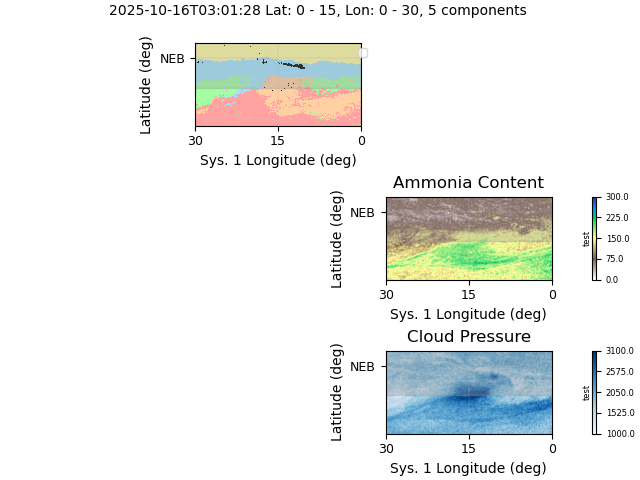
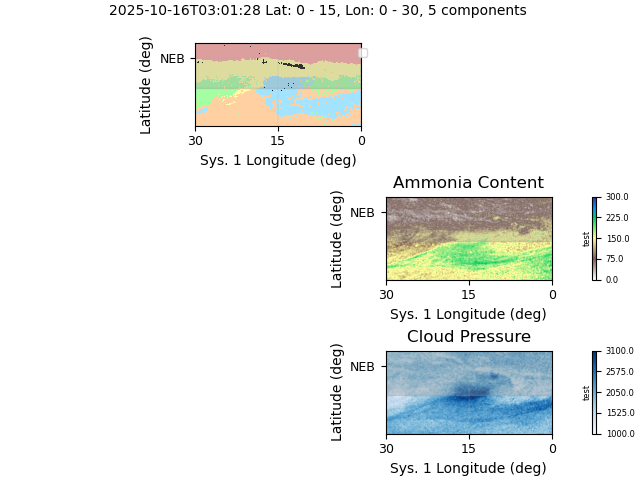
extract plotting logic from processes

Changed region(s): [[0.2812, 0.0938, 0.5625, 0.2812]]

diff --git a/scripts/processes.py b/scripts/processes.py
@@ -55,13 +55,12 @@ Parameters
         - list of length two lists with desired values ranges for each dimension in clustering, same order as keywords
     threshold, 
         - if soft clustering is enabled, specifies probability threshold for clustering
-    cmap, 
-        color map object for clusters
+
 """
 
-def create_map_comp_figure(keywords, latRng, lngRng, cm_num, n_comp, pred, input_arr, subset_shape, param_ranges, threshold, cmap, ROI):
+def create_map_comp_figure(keywords, latRng, lngRng, cm_num, n_comp, pred, input_arr, subset_shape, param_ranges, threshold,  ROI):
    
-  
+    cmap = ListedColormap(colors[:n_comp])
     fig2, axis2 = pl.subplots(3, 1, constrained_layout = True)
     map1 = pre.get_patch(keywords[0], latRng, lngRng, cm_num)
     map2 = pre.get_patch(keywords[1], latRng, lngRng, cm_num)
@@ -98,9 +97,9 @@ def create_uncertainty_fig(keywords, probs, indices, subset_shape, latRng, lngRn
      fig.savefig(output_file_name)
 
 
-def create_plot_figure(keywords, latRng, lngRng, cm_num, n_comp, pred, input_arr, subset_shape, param_ranges, threshold, cmap, cov_type, ROI):
+def create_plot_figure(keywords, latRng, lngRng, cm_num, n_comp, pred, input_arr, subset_shape, param_ranges, threshold,  cov_type, ROI):
     # creates and saves cluster map and cluster scatter plot
-    
+    cmap = ListedColormap(colors[:n_comp])
     fig1, axis1 = pl.subplots(2, 1)
     MP.create_cluster_map(axis1[0], n_comp, pred, input_arr, subset_shape, latRng, lngRng, cmap, ROI, cm_num)
     PL.create_cluster_plot(axis1[1],  keywords, 0, 1, input_arr, pred,  n_comp, cov_type, latRng, lngRng, cmap, cm_num)
@@ -109,6 +108,35 @@ def create_plot_figure(keywords, latRng, lngRng, cm_num, n_comp, pred, input_arr
     output_file_name = create_file_name(keywords, latRng, lngRng, n_comp, "map_plot", cm_num, threshold)
     fig1.savefig(output_file_name)
 
+
+def create_plots_figure(keywords, latRng, lngRng, cm_num, n_comp, pred, input_arr, subset_shape, param_ranges, threshold, cov_type, ROI):
+    # creates and saves cluster map and cluster scatter plot
+    cmap = ListedColormap(colors[:n_comp])
+    fig, axis = pl.subplots(3, 1)
+    MP.create_cluster_map(axis[0], n_comp, pred, input_arr, subset_shape, latRng, lngRng, cmap, ROI, cm_num)
+    PL.create_cluster_plot(axis[1],  keywords, 0, 1, input_arr, pred,  n_comp, cov_type, latRng, lngRng, cmap, cm_num)
+    PL.create_cluster_plot(axis[2],  keywords, 2, 3, input_arr, pred,  n_comp, cov_type, latRng, lngRng, cmap, cm_num)
+
+    fig.suptitle(create_plot_title(keywords, latRng, lngRng, n_comp, threshold), fontsize = 10)
+    output_file_name = create_file_name(keywords, latRng, lngRng, n_comp, "map_plots", cm_num, threshold)
+    fig.savefig(output_file_name) 
+
+def create_cluster_map(keywords, latRng, lngRng, cm_num, n_comp, pred, input_arr, subset_shape, param_ranges, threshold, cov_type, ROI):
+    cmap = ListedColormap(colors[:n_comp])
+    fig, axis = pl.subplots(1, 1)
+    MP.create_cluster_map(axis, n_comp, pred, input_arr, subset_shape, latRng, lngRng, cmap, ROI, cm_num)
+    fig.suptitle(create_plot_title(keywords, latRng, lngRng, n_comp, threshold), fontsize = 10)
+    output_file_name = create_file_name(keywords, latRng, lngRng, n_comp, "cluster_map", cm_num, threshold)
+    fig.savefig(output_file_name)
+
+def create_cluster_plot(keywords, latRng, lngRng, cm_num, n_comp, pred, input_arr, subset_shape, param_ranges, threshold, cov_type, ROI):
+    cmap = ListedColormap(colors[:n_comp])
+
+    fig, axis = pl.subplots(1, 1)
+    PL.create_cluster_plot(axis, keywords, 0, 1, input_arr, pred,  n_comp, cov_type, latRng, lngRng, cmap, cm_num)
+    fig.suptitle(create_plot_title(keywords, latRng, lngRng, n_comp, threshold), fontsize = 10)
+    output_file_name = create_file_name(keywords, latRng, lngRng, n_comp, "cluster plot", cm_num, threshold)
+    fig.savefig(output_file_name)
 
 """
 functions to run various clustering --> visualization pipelines
@@ -151,9 +179,8 @@ def output_comparison_and_plot(date, keywords, param_ranges,
     #pred = STAT.reassign_clusters(np.array(pred), np.swapaxes(stats[:, :, 0], 0, 1), np.array(param_ranges))
     # create scatter plots figure
   
-    cmap = ListedColormap(colors[:n_comp])
-    create_plot_figure(keywords, latRng, lngRng, cm_num, n_comp, pred, input_arr, subset_shape, param_ranges, threshold, cmap, cov_type, ROI)
-    create_map_comp_figure(keywords, latRng, lngRng, cm_num, n_comp, pred, input_arr, subset_shape, param_ranges, threshold, cmap, ROI)
+    create_plot_figure(keywords, latRng, lngRng, cm_num, n_comp, pred, input_arr, subset_shape, param_ranges, threshold,  cov_type, ROI)
+    create_map_comp_figure(keywords, latRng, lngRng, cm_num, n_comp, pred, input_arr, subset_shape, param_ranges, threshold,  ROI)
     indices = input_arr[:, input_arr.shape[1] - 1]
     create_uncertainty_fig(keywords, probs, indices, subset_shape, latRng, lngRng, cm_num, n_comp, threshold)
    
@@ -168,15 +195,12 @@ def output_cluster_map_and_plot(date, keywords, param_ranges,
     [pred, probs] = CL.create_clusters(input_arr[:, 0:len(keywords)], cov_type, n_comp, config["soft_clustering"], threshold)
     stats = STAT.get_all_stats(pred, keywords, input_arr[:, len(keywords)], n_comp, latRng, lngRng, cm_num)
     pred = STAT.reassign_clusters(np.array(pred), np.swapaxes(stats[:, :, 0], 0, 1), np.array(param_ranges))
-    cmap = ListedColormap(colors[:n_comp])
-    fig, axis = pl.subplots(2, 1)
-    fig.subplots_adjust(hspace=0.4)
-    MP.create_cluster_map(axis[0], n_comp, pred, input_arr, subset_shape, latRng, lngRng, cmap, ROI, cm_num)
-    PL.create_cluster_plot(axis[1],  keywords, 0, 1, input_arr, pred,  n_comp, cov_type, latRng, lngRng, cmap, cm_num)
-    fig.suptitle(create_plot_title(keywords, latRng, lngRng, n_comp, threshold), fontsize = 10)
-    
-    output_file_name = create_file_name(keywords, latRng, lngRng, n_comp, "map_plot", cm_num, threshold)
-    fig.savefig(output_file_name)
+    create_plot_figure(keywords, latRng, lngRng, cm_num, n_comp, pred, input_arr, subset_shape, param_ranges, threshold, cov_type, ROI)
+
+
+    # cluster probability maps
+    indices = input_arr[:, input_arr.shape[1] - 1]
+    create_uncertainty_fig(keywords, probs, indices, subset_shape, latRng, lngRng, cm_num, n_comp, threshold)
 
 def output_cluster_map_and_plots(date, keywords, param_ranges, 
                            latRng = [85, 95], lngRng = [230, 240], 
@@ -187,8 +211,6 @@ def output_cluster_map_and_plots(date, keywords, param_ranges,
     stats = STAT.get_all_stats(pred, keywords, input_arr[:, len(keywords)], n_comp, latRng, lngRng, cm_num)
     pred = STAT.reassign_clusters(np.array(pred), np.swapaxes(stats[:, :, 0], 0, 1), np.array(param_ranges))
     
-    cmap = ListedColormap(colors[:n_comp])
-    fig, axis = pl.subplots(3, 1)
   
     indices = input_arr[:, input_arr.shape[1] - 1]
 
@@ -197,13 +219,10 @@ def output_cluster_map_and_plots(date, keywords, param_ranges,
     pred = STAT.reassign_clusters(np.array(pred), np.swapaxes(stats[:, :, 0], 0, 1), np.array(param_ranges))
     
     #create figures
-    MP.create_cluster_map(axis[0], n_comp, pred, input_arr, subset_shape, latRng, lngRng, cmap, ROI, cm_num)
-    PL.create_cluster_plot(axis[1],  keywords, 0, 1, input_arr, pred,  n_comp, cov_type, latRng, lngRng, cmap, cm_num)
-    PL.create_cluster_plot(axis[2],  keywords, 2, 3, input_arr, pred,  n_comp, cov_type, latRng, lngRng, cmap, cm_num)
-
-    fig.suptitle(create_plot_title(keywords, latRng, lngRng, n_comp, threshold), fontsize = 10)
-    output_file_name = create_file_name(keywords, latRng, lngRng, n_comp, "map_plots", cm_num, threshold)
-    fig.savefig(output_file_name) 
+    create_plots_figure(keywords, latRng, lngRng, cm_num, n_comp, pred, input_arr, subset_shape, param_ranges, threshold, cov_type, ROI)
+    
+    # cluster probability maps
+    create_uncertainty_fig(keywords, probs, indices, subset_shape, latRng, lngRng, cm_num, n_comp, threshold)
 
 
 def output_cluster_map(date, keywords, param_ranges, 
@@ -217,13 +236,8 @@ def output_cluster_map(date, keywords, param_ranges,
     
     stats = STAT.get_all_stats(pred, keywords, input_arr[:, len(keywords)], n_comp, latRng, lngRng, cm_num)
     pred = STAT.reassign_clusters(np.array(pred), np.swapaxes(stats[:, :, 0], 0, 1), np.array(param_ranges))
-    cmap = ListedColormap(colors[:n_comp])
-
-    fig, axis = pl.subplots(1, 1)
-    MP.create_cluster_map(axis, n_comp, pred, input_arr, subset_shape, latRng, lngRng, cmap, ROI, cm_num)
-    fig.suptitle(create_plot_title(keywords, latRng, lngRng, n_comp, threshold), fontsize = 10)
-    output_file_name = create_file_name(keywords, latRng, lngRng, n_comp, "cluster_map", cm_num, threshold)
-    fig.savefig(output_file_name)
+    create_cluster_map(keywords, latRng, lngRng, cm_num, n_comp, pred, input_arr, subset_shape, param_ranges, threshold, cov_type, ROI)
+   
 
 
 def output_cluster_plot(date, keywords, param_ranges, 
@@ -236,13 +250,7 @@ def output_cluster_plot(date, keywords, param_ranges,
     stats = STAT.get_all_stats(pred, keywords, input_arr[:, len(keywords)], n_comp, latRng, lngRng, cm_num)
     pred = STAT.reassign_clusters(np.array(pred), np.swapaxes(stats[:, :, 0], 0, 1), np.array(param_ranges))
     
-    cmap = ListedColormap(colors[:n_comp])
-
-    fig, axis = pl.subplots(1, 1)
-    PL.create_cluster_plot(axis, keywords, 0, 1, input_arr, pred,  n_comp, cov_type, latRng, lngRng, cmap, cm_num)
-    fig.suptitle(create_plot_title(keywords, latRng, lngRng, n_comp, threshold), fontsize = 10)
-    output_file_name = create_file_name(keywords, latRng, lngRng, n_comp, "cluster plot", cm_num, threshold)
-    fig.savefig(output_file_name)
+    create_cluster_plot(keywords, latRng, lngRng, cm_num, n_comp, pred, input_arr, subset_shape, param_ranges, threshold, cov_type, ROI)
 
 
 def create_file_name(keywords, latRng, lngRng, n_comp, suffix, cm_num, threshold):
@@ -311,7 +319,7 @@ ROI={"Hot Spot":[82,83,14.0,2.0],
                      "Cloud Plume":[82,84,5.0,3.0],
                      "Reference":[76,78,15,4.0]} 
 
-output_comparison_and_plot("20251016", ["NH3", "PCld", "AOI", "CI"], [[0, 300], [1000,  3100], [0.1, 0.4], [0.4, 0.8]], lat_range, lon_range, 5)
+output_cluster_map_and_plots("20251016", ["NH3", "PCld", "AOI", "CI"], [[0, 300], [1000,  3100], [0.1, 0.4], [0.4, 0.8]], lat_range, lon_range, 5)
 
 #output_cluster_map_and_plot("20251016", ["AOI", "CI"], [[0.1, 0.4], [0.4, 0.8]], lat_range, lon_range, 4, ROI)
 
